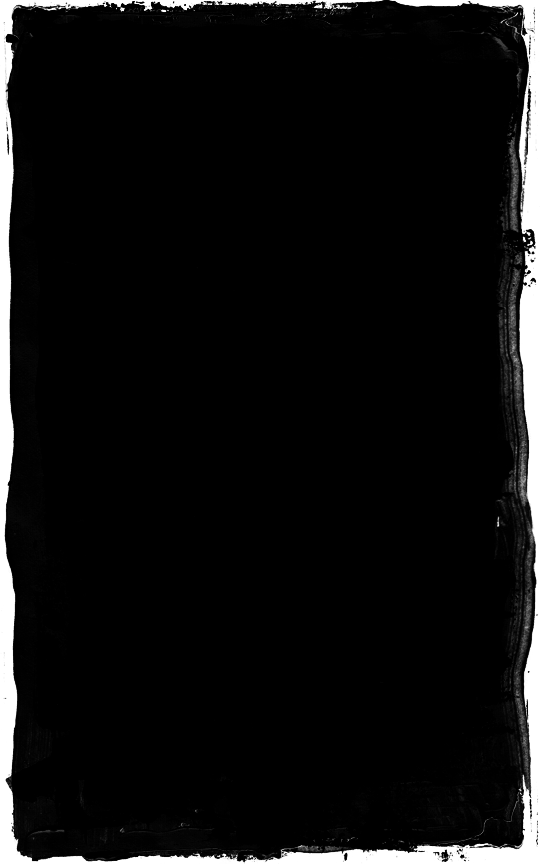
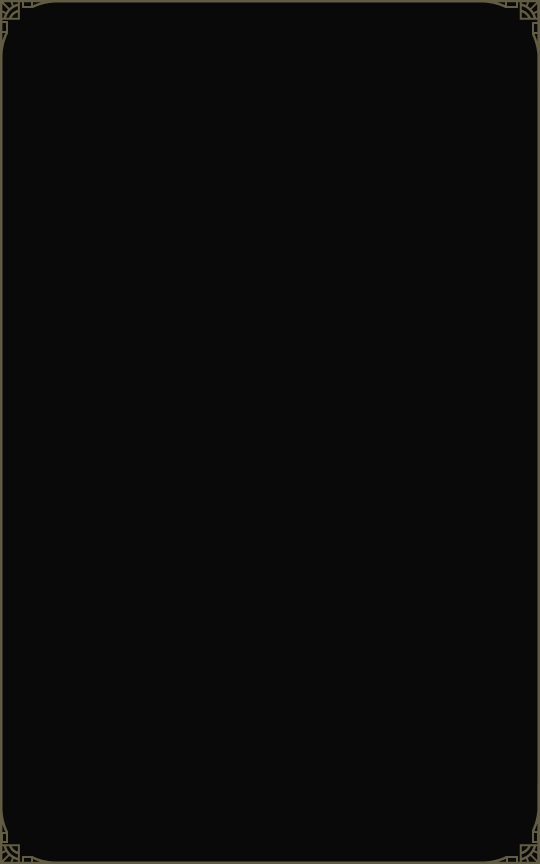
update ui

Changed region(s): [[0.0, 0.0, 1.0, 1.0]]

diff --git a/resources/mega_doctorjob/ui/css/style.css b/resources/mega_doctorjob/ui/css/style.css
@@ -1,3 +1,5 @@
+@import url('https://fonts.googleapis.com/css2?family=Milonga&display=swap');
+
 @font-face {
     font-family: 'RDR Lino Regular';
     src: url("../fonts/RDR_Lino_Regular.ttf") format("truetype");
@@ -49,15 +51,15 @@ h1, h2, h3, h4, h5, h6, hr, p {
 }
 
 h1 {
-    font-family: 'Chinese Rocks';
+    font-family: 'Milonga';
 }
 
 h2, h3, h4, h5, h6 {
-    font-family: 'RDR Lino Regular';
+    font-family: 'Milonga';
 }
 
 p {
-    font-family: 'Hapna Slab Serif';
+    font-family: 'Milonga';
 }
 
 button:focus {
@@ -70,19 +72,19 @@ button:focus {
   
 /* Track */
 ::-webkit-scrollbar-track {
-    background: rgba(92, 92, 92, 0.3); 
+    background: #2c2a21; 
     border-radius: 5px;
 }
 
 /* Handle */
 ::-webkit-scrollbar-thumb {
-    background: rgba(178, 18, 20, 0.3); 
+    background: #615C43; 
     border-radius: 5px;
 }
 
 /* Handle on hover */
 ::-webkit-scrollbar-thumb:hover {
-    background: #B62A2A; 
+    background: #C1B681; 
 }
 
 #app {
@@ -96,7 +98,7 @@ button:focus {
 }
 
 .patient, .notes {
-    width: 100%;
+    width: 28vw;
     height: 100%;
     max-height: calc(100vh - 200px);
     background: url('../img/bg.png');
@@ -106,9 +108,15 @@ button:focus {
 }
 
 .notes {
-    width: 100%;
     grid-column: 1/2;
     padding: 50px 80px;
+
+    width: 48vw;
+    max-height: calc(100vh - 200px);
+    background: url('../img/bgdeux.png');
+    background-size: 100% 100%;
+    margin: 0 25px;
+    padding: 50px;
 }
 
 .notes .scrollable {
@@ -125,8 +133,8 @@ button:focus {
 }
 
 .header-group hr {
-    border-color: #B62A2A;
-    border: 2px solid #B62A2A;
+    border-color: #615C43;
+    border: 2px solid #615C43;
 }
 
 .patient-info {

diff --git a/resources/mega_doctorjob/ui/index.html b/resources/mega_doctorjob/ui/index.html
@@ -30,14 +30,14 @@
                     </div>
                 </div>
                 <button class="rdr-button" id="add-note" @click="openNoteModal()">
-                    Add Note
+                    Ajouter une note
                 </button>
             </div>
         </div>
         <div class="patient" style="display: none;">
             <div class="header-group">
                 <h1 v-if="!this.inspectMode">Patient</h1>
-                <h1 v-else>Dead Body</h1>
+                <h1 v-else>Cadavre</h1>
                 <hr>
             </div>
             <div class="patient-info">
@@ -80,14 +80,14 @@
                 <div class="patient-parameters" v-if="patient.diseases">
                     <div class="parameter">
                         <div class="header-group">
-                            <h1>Heart Rate</h1>
+                            <h1>Battements Cardiaques</h1>
                             <hr>
                         </div>
                         <p>{{heartRate}}</p>
                     </div>
                     <div class="parameter">
                         <div class="header-group">
-                            <h1>Body Temperature</h1>
+                            <h1>Temperature du corps</h1>
                             <hr>
                         </div>
                         <p>{{bodyTemperature}}</p>
@@ -115,7 +115,7 @@
         </div>
     </script>
     <script type="text/template" id="addNoteModalContent">
-        <h1>Add Note</h1>
+        <h1>Ajouter une note</h1>
         <form class="modal-form" id="addNoteForm">
             <textarea id="noteText"></textarea>
         </form>
